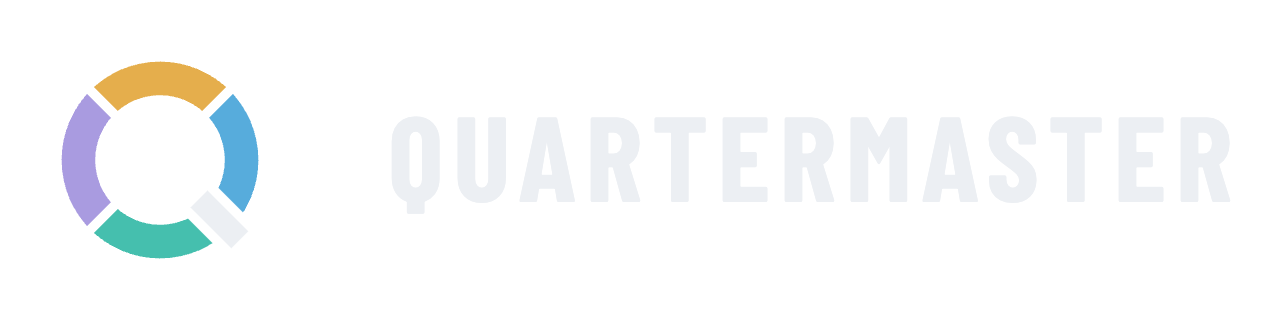
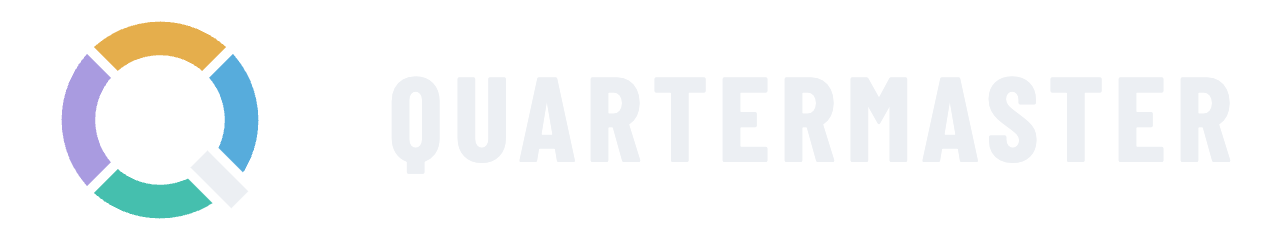
fix: align landing interactions with design handoff

Changed region(s): [[0.0306, 0.0875, 0.2145, 0.4083], [0.0306, 0.5833, 0.1838, 0.9333], [0.1532, 0.6125, 0.2145, 0.7]]

diff --git a/assets/marketing.css b/assets/marketing.css
@@ -37,18 +37,18 @@ a { color:var(--blue);text-underline-offset:4px; }
 a:focus-visible,button:focus-visible { outline:3px solid var(--teal);outline-offset:4px; }
 .skip { position:absolute;left:16px;top:-100px;z-index:100;background:#fff;padding:12px; }
 .skip:focus { top:12px; }
-.marketing-page { width:100%;max-width:1472px;margin:0 auto;background:var(--panel);border:1px solid var(--line);border-radius:18px;box-shadow:0 1px 2px #1518230a,0 20px 38px -24px #15182380;overflow:hidden; }
-.marketing-header { position:sticky;top:0;z-index:40;display:flex;align-items:center;justify-content:space-between;gap:20px;padding:14px 56px;border-bottom:1px solid var(--line-soft);background:rgba(255,255,255,.96);backdrop-filter:blur(10px); }
+.marketing-page { width:100%;max-width:1472px;margin:0 auto;background:var(--panel);border:1px solid var(--line);border-radius:18px;box-shadow:0 1px 2px #1518230a,0 20px 38px -24px #15182380;overflow:visible; }
+.marketing-header { position:sticky;top:0;z-index:60;display:flex;align-items:center;justify-content:space-between;gap:20px;padding:12px 56px;border-bottom:1px solid var(--line-soft);background:rgba(255,255,255,.96);backdrop-filter:blur(10px); }
 .marketing-brand { display:flex;align-items:center;color:var(--ink);text-decoration:none; }
 .marketing-brand-art { display:inline-flex;align-items:center;flex:none; }
 .marketing-brand-lockup { display:block;width:auto;height:50px; }
-.marketing-brand-mark { display:none;width:44px;height:44px;object-fit:contain; }
-.marketing-nav { display:flex;align-items:center;gap:28px; }
-.marketing-nav .marketing-link { min-height:44px;padding:10px 0;border:0;background:none;color:var(--muted);font:inherit;font-size:15px;font-weight:400;text-decoration:none;cursor:pointer; }
+.marketing-brand-mark { display:none;width:46px;height:46px;object-fit:contain; }
+.marketing-nav { display:flex;align-items:center;gap:10px; }
+.marketing-nav .marketing-link { --nav-focus:var(--blue);--nav-tint:var(--blue-soft);position:relative;min-height:44px;padding:10px;border:0;border-radius:10px;background:transparent;color:var(--muted);font:inherit;font-size:15px;font-weight:400;text-decoration:none;cursor:pointer;transition:color .18s ease,background-color .18s ease,box-shadow .18s ease; }
+.marketing-nav .marketing-link:nth-child(2) { --nav-focus:var(--teal);--nav-tint:var(--teal-soft); }.marketing-nav .marketing-link:nth-child(3) { --nav-focus:var(--plum);--nav-tint:var(--plum-soft); }.marketing-nav .marketing-link:nth-child(4) { --nav-focus:#96590b;--nav-tint:#fbedd0; }.marketing-nav .marketing-link:nth-child(5) { --nav-focus:#1c7150;--nav-tint:#dcf0e6; }
 .marketing-nav .marketing-link:visited { color:var(--muted); }
-.marketing-nav .marketing-link[aria-current="page"] { color:var(--blue); }
-.marketing-nav .marketing-link[aria-current="location"] { position:relative;color:var(--blue); }
-.marketing-nav .marketing-link[aria-current="location"]::after { content:"";position:absolute;left:0;right:0;bottom:4px;height:2px;border-radius:2px;background:var(--blue); }
+.marketing-nav .marketing-link[aria-current="page"],.marketing-nav .marketing-link[aria-current="location"] { color:var(--nav-focus);background:var(--nav-tint);box-shadow:inset 0 0 0 1px color-mix(in srgb,var(--nav-focus) 18%,transparent);font-weight:600; }
+.marketing-nav .marketing-link[aria-current="location"]::after { content:"";position:absolute;left:10px;right:10px;bottom:4px;height:2px;border-radius:2px;background:var(--nav-focus); }
 .marketing-open { display:inline-flex;min-height:44px;align-items:center;justify-content:center;padding:10px 24px;border:0;border-radius:999px;background:var(--blue);box-shadow:0 16px 34px -18px #0f6493d9;color:#fff;text-decoration:none;font:inherit;font-size:15px;font-weight:650;transition:transform .18s ease,box-shadow .18s ease,background-color .18s ease; }
 .marketing-open:hover { transform:translateY(-2px);background:var(--blue-dark);box-shadow:0 20px 38px -17px #0f6493ed; }
 .marketing-open:active { transform:translateY(0);box-shadow:0 10px 24px -17px #0f6493ed; }
@@ -193,14 +193,15 @@ a:focus-visible,button:focus-visible { outline:3px solid var(--teal);outline-off
 .landing-local { display:flex;align-items:center;justify-content:center;gap:9px;margin:20px auto 0;color:#596773;font-size:12px; }
 .landing-local a { margin-left:2px; }
 .value-strip { position:relative;display:grid;grid-template-columns:repeat(auto-fit,minmax(230px,1fr));gap:clamp(20px,3vw,36px);max-width:1180px;margin:clamp(54px,7vw,86px) auto 0;text-align:left; }
-.value-signpost { --signpost:var(--blue);display:flex;min-height:145px;flex-direction:column;padding:20px 2px 0;border-top:3px solid var(--signpost);color:var(--ink);text-decoration:none;transition:transform .18s ease; }
+.value-signpost { --signpost:var(--blue);display:grid;min-height:145px;align-content:start;gap:9px;padding:18px 2px 0;border-top:3px solid var(--signpost);color:var(--ink);text-decoration:none;transition:transform .18s ease; }
 .value-signpost:hover { transform:translateY(-3px); }
-.value-signpost .value-number { color:var(--signpost);font-family:"IBM Plex Mono",ui-monospace,monospace;font-size:12px;font-weight:600; }
-.value-signpost strong { margin-top:12px;font-family:"Barlow Condensed",system-ui,sans-serif;font-size:25px;line-height:1.05; }
-.value-signpost small { margin-top:9px;color:var(--muted);font-size:13px;line-height:1.5; }
+.value-signpost-title { display:flex;align-items:baseline;gap:12px; }
+.value-signpost .value-number { flex:none;color:var(--signpost);font-family:"Barlow Condensed",system-ui,sans-serif;font-size:15px;font-weight:700;letter-spacing:.1em; }
+.value-signpost strong { font-family:"Barlow Condensed",system-ui,sans-serif;font-size:25px;line-height:1.05; }
+.value-signpost small { color:var(--muted);font-size:15px;line-height:1.5; }
 .signpost-teal { --signpost:var(--teal); }.signpost-plum { --signpost:var(--plum); }.signpost-gold { --signpost:#96590b; }
 
-.story-section,.privacy-section { padding:clamp(56px,7vw,92px) clamp(18px,4vw,56px);scroll-margin-top:74px; }
+.story-section,.privacy-section { padding:clamp(56px,7vw,92px) clamp(18px,4vw,56px);scroll-margin-top:86px; }
 .story-heading { max-width:1180px;margin:0 auto 44px;text-align:left; }
 .story-heading-line { display:flex;align-items:center;justify-content:flex-start;gap:16px;flex-wrap:wrap; }
 .story-heading h2,.privacy-section h2 { max-width:18em;margin:18px 0 0;font-size:clamp(36px,5vw,62px);font-weight:700;line-height:1.02;letter-spacing:-.025em; }
@@ -220,27 +221,27 @@ a:focus-visible,button:focus-visible { outline:3px solid var(--teal);outline-off
 .focus-ring b { position:absolute;left:-13px;top:-13px;display:grid;width:26px;height:26px;place-items:center;border-radius:50%;background:var(--ring,var(--blue));color:#fff;font:600 12px "IBM Plex Mono",ui-monospace,monospace; }
 .focus-one { left:2.2%;top:35.3%;width:24.7%;height:12.6%; }.focus-two { --ring:#96590b;left:55.2%;top:59.3%;width:41.6%;height:20%; }
 .whole-callouts { flex:1 1 260px;display:grid;gap:16px; }
-.metric-callout { position:relative;padding:22px 20px 20px;border:1px solid var(--line);border-left:3px solid var(--blue);border-radius:0 12px 12px 0;background:#fff;box-shadow:0 12px 28px -28px #151823; }
-.metric-callout.drift-callout { border:1px solid #d9d4e8;border-left:3px solid var(--plum);background:linear-gradient(135deg,#fff 0%,#f7f4fd 100%); }
-.metric-callout > span { position:absolute;right:16px;top:14px;color:var(--blue);font:600 12px "IBM Plex Mono",ui-monospace,monospace; }.metric-callout.amber > span{color:#96590b}
+.metric-callout { --callout:var(--blue);--callout-glow:rgba(15,100,147,.16);padding:20px 22px;border:1px solid var(--line);border-left:3px solid var(--callout);border-radius:14px;background:#fff;box-shadow:0 1px 2px rgba(21,24,35,.04),0 14px 30px -26px rgba(21,24,35,.45);transition:border-color .28s ease,box-shadow .28s ease,transform .28s ease; }
+.metric-callout.drift-callout { --callout:#96590b;--callout-glow:rgba(150,89,11,.15); }
+.metric-callout:hover,.metric-callout:focus-within { border-color:var(--callout);box-shadow:0 0 0 6px var(--callout-glow),0 24px 44px -28px rgba(21,24,35,.55);transform:translateY(-2px); }
+.metric-kicker { display:flex;align-items:center;gap:10px; }.metric-kicker > span { display:grid;width:22px;height:22px;flex:none;place-items:center;border-radius:50%;background:var(--callout);color:#fff;font:700 13px "Barlow Condensed",system-ui,sans-serif; }
 .metric-callout small,.goal-metrics small,.tax-flow small,.tax-result small,.decision-columns small { display:block;color:#68737d;font-size:11px;font-weight:700;letter-spacing:.11em;text-transform:uppercase; }
 .metric-callout strong { display:block;margin-top:8px;font:700 clamp(28px,3vw,39px)/1 "Barlow Condensed",system-ui,sans-serif; }
 .metric-callout p { margin:9px 0 0;color:var(--muted);font-size:13px;line-height:1.5; }
-.drift-callout > span { color:var(--plum); }
-.drift-values { display:grid;gap:8px;margin-top:12px; }
-.drift-values strong { margin:0;padding:10px 12px;border-radius:8px;background:#edf6fb;color:var(--blue);font-size:clamp(23px,2.2vw,30px); }
-.drift-values strong+strong { background:#f0edf9;color:var(--plum); }
+.drift-values { display:grid;gap:5px;margin-top:12px; }
+.drift-values strong { margin:0;color:#96590b;font-size:clamp(25px,2.4vw,34px);font-variant-numeric:tabular-nums; }
+.drift-values strong span { display:inline-block;min-width:2.8em;color:var(--ink);font-size:.58em;letter-spacing:.02em;text-transform:uppercase; }
 .text-link { justify-self:start;margin-top:6px;font-weight:700;text-decoration:none; }
 
 .tax-section { background:#151823;color:#edf2f3; }
 .tax-section .eyebrow { --eyebrow:#45bfae; }.tax-section .story-heading h2 em { color:#45bfae; }
 .tax-section .story-heading > p { color:#aab4c0; }
 .dark-chip { border-color:#2b3140;background:#1c2030;color:#aab4c0; }
-.tax-flow { display:flex;max-width:1180px;margin:clamp(36px,5vw,64px) auto 0;align-items:center; }
-.tax-flow article { flex:1 1 220px;display:grid;min-width:0;gap:8px;padding:24px 24px 26px;border:1px solid #2b3140;border-top:3px solid #a99be0;border-radius:18px;background:#1c2030; }
+.tax-flow { display:flex;max-width:1180px;margin:clamp(36px,5vw,64px) auto 0;align-items:stretch; }
+.tax-flow article { flex:1 1 0;display:grid;min-width:0;min-height:164px;align-content:start;gap:8px;padding:24px 24px 26px;border:1px solid #2b3140;border-top:3px solid #a99be0;border-radius:18px;background:#1c2030; }
 .tax-flow .account-card { border-top-color:#e5ae4c; }
 .tax-flow small { color:#7b8694; }.tax-flow strong { margin:0;color:#fff;font:700 clamp(26px,2.6vw,34px)/1.1 "Barlow Condensed",system-ui,sans-serif; }.tax-flow .holding-card strong { font-family:"IBM Plex Mono",ui-monospace,monospace;font-weight:500; }.tax-flow span,.tax-flow p { margin:0;color:#aab4c0;font-size:14.5px;line-height:1.5; }
-.tax-flow .tax-cost { background:#33191a;border-color:#5a2a26;border-top-color:#e3826f; }.tax-flow .tax-cost small { color:#e3826f; }.tax-flow .tax-cost strong { color:#e3826f;font-size:clamp(40px,4.4vw,62px);line-height:.95;font-variant-numeric:tabular-nums; }.tax-flow .tax-cost strong span { margin-left:6px;color:#eceff3;font:700 .42em "Barlow Condensed",system-ui,sans-serif; }
+.tax-flow .tax-cost { background:#33191a;border-color:#5a2a26;border-top-color:#e3826f; }.tax-flow .tax-cost small { color:#e3826f; }.tax-flow .tax-cost strong { color:#e3826f;font-size:clamp(34px,3.2vw,46px);line-height:1;font-variant-numeric:tabular-nums; }.tax-flow .tax-cost strong span { margin-left:6px;color:#eceff3;font:700 .5em "Barlow Condensed",system-ui,sans-serif; }
 .tax-connector { position:relative;align-self:center;width:54px;height:2px;flex:none;background:#5a6370;transform-origin:left; }.tax-connector::after { content:"";position:absolute;right:-1px;top:-4px;width:8px;height:8px;border-top:2px solid #5a6370;border-right:2px solid #5a6370;transform:rotate(45deg); }
 .qm-motion .tax-connector { transform:scaleX(0);transition:transform 700ms var(--ease-reveal); }.qm-motion .tax-section.is-story-active .tax-connector { transform:scaleX(1); }.qm-motion .tax-section.is-story-active .connector-one { transition-delay:100ms; }.qm-motion .tax-section.is-story-active .connector-two { transition-delay:500ms; }
 .tax-lower { display:grid;grid-template-columns:repeat(auto-fit,minmax(min(100%,320px),1fr));gap:clamp(16px,2vw,28px);max-width:1180px;margin:clamp(20px,2.4vw,28px) auto 0;align-items:stretch; }
@@ -251,7 +252,7 @@ a:focus-visible,button:focus-visible { outline:3px solid var(--teal);outline-off
 
 .goals-section { background:linear-gradient(145deg,var(--plum-soft),#fff 65%); }
 .goals-section .eyebrow { --eyebrow:var(--plum); }.goals-section .story-heading h2 em { color:var(--plum); }
-.goal-cards { display:grid;grid-template-columns:repeat(2,minmax(0,1fr));gap:22px;max-width:1040px;margin:0 auto; }
+.goal-cards { display:grid;grid-template-columns:repeat(2,minmax(0,1fr));gap:22px;max-width:1180px;margin:0 auto; }
 .goal-card { padding:28px;border:1px solid var(--line);border-top:3px solid var(--plum);border-radius:14px;background:#fff;box-shadow:0 18px 38px -34px #151823; }
 .college-goal { border-top-color:var(--teal); }.goal-card-top { display:flex;justify-content:space-between;gap:16px;align-items:center; }.goal-card-top > span { font:700 26px "Barlow Condensed",system-ui,sans-serif; }.goal-card-top small { color:#6b7580;font-size:11px; }
 .goal-metrics { display:grid;grid-template-columns:1.15fr .85fr;gap:18px;margin-top:26px; }.goal-metrics > div+div { padding-left:18px;border-left:1px solid var(--line-soft); }.goal-metrics strong { display:block;margin-top:7px;font:700 clamp(26px,3vw,39px)/1 "Barlow Condensed",system-ui,sans-serif; }.retirement-goal .goal-metrics strong { color:var(--plum); }.college-goal .goal-metrics strong { color:var(--teal); }
@@ -259,21 +260,19 @@ a:focus-visible,button:focus-visible { outline:3px solid var(--teal);outline-off
 .range-labels { display:flex;justify-content:space-between;margin-top:12px;color:#68737d;font-size:11px; }.range-labels span:last-child{text-align:right}.range-labels b{color:var(--ink)}
 .college-bar { overflow:hidden;background:repeating-linear-gradient(135deg,#f3e6c9 0,#f3e6c9 6px,#ead8b0 6px,#ead8b0 10px); }.college-bar span { position:absolute;inset:0 72% 0 0;background:var(--teal); }.college-bar i { position:absolute;inset:0 13% 0 28%;background:#74b8ae; }
 .goal-card > p { margin:14px 0 0;color:#68737d;font-size:12px; }
-.goals-action { display:flex;justify-content:center;align-items:center;gap:18px;flex-wrap:wrap;max-width:1040px;margin:28px auto 0; }.goals-primary { border-color:var(--plum)!important;background:var(--plum)!important;color:#fff!important; }.coming-soon { max-width:420px;color:var(--muted);font-size:13px; }.coming-soon b { display:inline-block;margin-right:7px;padding:3px 7px;border-radius:999px;background:#f3e3c2;color:#7f4c0a;font-size:10px;letter-spacing:.08em;text-transform:uppercase; }
-.goals-section .fine-print { color:#68737d; }
+.goals-action { display:flex;justify-content:flex-start;align-items:center;gap:18px;flex-wrap:wrap;max-width:1180px;margin:28px auto 0; }.goals-primary { border-color:var(--plum)!important;background:var(--plum)!important;color:#fff!important; }.coming-soon { max-width:420px;color:var(--muted);font-size:13px; }.coming-soon b { display:inline-block;margin-right:7px;padding:3px 7px;border-radius:999px;background:#f3e3c2;color:#7f4c0a;font-size:10px;letter-spacing:.08em;text-transform:uppercase; }
+.goals-section .fine-print { max-width:1180px;margin:18px auto 0;color:#68737d;text-align:left; }
 
 .decisions-section { background:#f7f8f6; }.decisions-section .eyebrow { --eyebrow:#96590b; }.decisions-section .story-heading h2 em { color:#96590b; }
-.cadence-steps { display:flex;max-width:1180px;margin:0 auto;align-items:center;justify-content:center;gap:14px; }.cadence-steps div { flex:1;display:flex;min-height:124px;flex-direction:column;justify-content:center;padding:24px;border-top:4px solid var(--step,var(--blue));background:#fff;box-shadow:0 14px 30px -26px #151823; }.cadence-steps div:nth-of-type(2){--step:var(--teal)}.cadence-steps div:nth-of-type(3){--step:var(--plum)}.cadence-steps div:nth-of-type(4){--step:#96590b}.cadence-steps b { color:var(--step,var(--blue));font:600 12px "IBM Plex Mono",ui-monospace,monospace; }.cadence-steps strong { margin-top:10px;font:700 25px "Barlow Condensed",system-ui,sans-serif; }.cadence-steps > i { color:#949ca3;font-style:normal; }
-.decision-record { max-width:1040px;margin:28px auto 0;border:1px solid var(--line);border-radius:14px;background:#fff;overflow:hidden; }.decision-record-head { display:flex;justify-content:space-between;gap:16px;padding:16px 20px;border-bottom:1px solid var(--line-soft);background:#fbfcfb; }.decision-record-head span { font-weight:700; }.decision-record-head small{color:#66717a}.decision-columns { display:grid;grid-template-columns:repeat(3,1fr); }.decision-columns > div { padding:22px; }.decision-columns > div+div { border-left:1px solid var(--line-soft); }.decision-columns p { margin:8px 0 0;color:var(--muted);font-size:13px;line-height:1.55; }
+.cadence-steps { display:grid;grid-template-columns:repeat(4,minmax(0,1fr));gap:clamp(12px,1.4vw,16px);max-width:1180px;margin:0 auto; }.cadence-steps div { --step:var(--blue);display:flex;min-width:0;align-items:center;gap:14px;padding:20px 22px;border:1px solid var(--line);border-top:3px solid var(--step);border-radius:16px;background:#fff;box-shadow:0 1px 2px rgba(21,24,35,.04),0 14px 30px -26px rgba(21,24,35,.45); }.cadence-steps div:nth-child(2){--step:var(--teal)}.cadence-steps div:nth-child(3){--step:var(--plum)}.cadence-steps div:nth-child(4){--step:#c08a2e}.cadence-steps b { display:grid;width:40px;height:40px;flex:none;place-items:center;border-radius:50%;background:var(--step);color:#fff;font:700 17px "Barlow Condensed",system-ui,sans-serif; }.cadence-steps strong { font:700 25px/1.05 "Barlow Condensed",system-ui,sans-serif; }.cadence-steps i { margin-left:auto;color:#7a8590;font-size:20px;font-style:normal; }
+.decision-record { max-width:1180px;margin:clamp(20px,2.4vw,28px) auto 0;border:1px solid var(--line);border-radius:18px;background:#fff;box-shadow:0 22px 46px -34px rgba(21,24,35,.5);overflow:hidden; }.decision-record-head { display:flex;align-items:center;justify-content:space-between;gap:16px;padding:14px 22px;border-bottom:1px solid var(--line-soft);background:#fff; }.decision-record-head span { color:#68737d;font:600 11.5px "Barlow Condensed",system-ui,sans-serif;letter-spacing:.15em;text-transform:uppercase; }.decision-record-head small{color:#68737d;font-size:13.5px}.decision-columns { display:grid;grid-template-columns:repeat(3,1fr); }.decision-columns > div { padding:20px 22px; }.decision-columns > div+div { border-left:1px solid var(--line-soft); }.decision-columns > div:nth-child(1) small { color:var(--blue); }.decision-columns > div:nth-child(2) small { color:var(--teal); }.decision-columns > div:nth-child(3) small { color:#96590b; }.decision-columns p { margin:8px 0 0;color:var(--muted);font-size:15px;line-height:1.55; }.decision-columns p strong { color:var(--ink); }
 
 .privacy-section { background:#fff; }.privacy-inner { display:grid;grid-template-columns:minmax(280px,.85fr) minmax(420px,1.15fr);gap:clamp(36px,5vw,72px);max-width:1180px;margin:0 auto;align-items:center; }.privacy-copy h2 { margin-top:17px; }.privacy-copy > p { max-width:46em;color:var(--muted);font-size:16px; }.privacy-copy details { margin-top:24px;padding:17px 20px;border:1px solid var(--line);border-radius:12px;background:#f8faf8; }.privacy-copy summary { cursor:pointer;font-weight:700; }.privacy-copy li { margin:7px 0;color:var(--muted); }.privacy-proof { font-size:12px!important;font-weight:700; }
 .privacy-visuals { position:relative;min-height:430px;isolation:isolate; }.privacy-visuals figure { margin:0;background:#fff;box-shadow:0 26px 50px -34px #151823;overflow:hidden; }.privacy-visuals img { display:block;width:100%;height:auto; }.history-detail { position:absolute;left:0;top:32px;z-index:1;width:82%;border:1px solid var(--line);border-radius:14px; }.phone-detail { position:absolute;right:0;top:0;z-index:2;width:27%;border:7px solid #252c3b;border-radius:28px; }.phone-detail img { border-radius:20px; }
 
 .start-dialog-warning.protected { border-left-color:var(--teal);background:#e9f5f1;color:#245d54; }
 
-@keyframes value-signpost-in { from { opacity:0;transform:translateY(8px); } to { opacity:1;transform:translateY(0); } }
-.value-signpost:nth-child(1) { --value-i:0; }.value-signpost:nth-child(2) { --value-i:1; }.value-signpost:nth-child(3) { --value-i:2; }.value-signpost:nth-child(4) { --value-i:3; }
-.qm-motion .value-signpost { animation:value-signpost-in 440ms var(--ease-reveal) backwards;animation-delay:calc(80ms + var(--value-i,0) * 70ms); }
+.qm-motion .value-signpost[data-reveal] { --reveal-y:22px; }
 
 @media (hover:hover) and (pointer:fine) {
   .ritual-card,.outlook-card,.privacy-card { transition:transform 220ms var(--ease-reveal),box-shadow 220ms var(--ease-reveal); }
@@ -350,9 +349,12 @@ a:focus-visible,button:focus-visible { outline:3px solid var(--teal);outline-off
   .tax-actions { justify-content:flex-start; }
   .fine-print { text-align:left; }
   .goals-action { align-items:flex-start;justify-content:flex-start;flex-direction:column; }
-  .cadence-steps { display:grid;grid-template-columns:1fr 1fr; }.cadence-steps > i { display:none; }
+  .cadence-steps { grid-template-columns:1fr 1fr; }
   .decision-record-head { flex-direction:column;gap:4px; }.decision-columns { grid-template-columns:1fr; }.decision-columns > div+div { border-left:0;border-top:1px solid var(--line-soft); }
   .privacy-inner { display:block; }.privacy-visuals { min-height:300px;margin-top:34px; }.history-detail { position:relative;top:20px;width:88%; }.phone-detail { width:30%; }
+}
+@media(max-width:480px) {
+  .cadence-steps { grid-template-columns:1fr; }
 }
 @media(prefers-reduced-motion:reduce) {
   html { scroll-behavior:auto; }

diff --git a/index.html b/index.html
@@ -44,11 +44,11 @@
       </div>
       <p class="landing-local"><span aria-hidden="true"></span>No account linking. Your portfolio data stays in a file you control. <a href="/privacy.html">Privacy</a></p>
     </div>
-    <nav class="value-strip" aria-label="What Quartermaster helps you do">
-      <a href="#lp-whole" class="value-signpost signpost-blue"><span class="value-number">01</span><strong>See the whole picture</strong><small>Every brokerage, 401(k), IRA, Roth, and 529 in one allocation.</small></a>
-      <a href="#lp-tax" class="value-signpost signpost-teal"><span class="value-number">02</span><strong>Find potential tax drag</strong><small>See when an investment may sit in a less tax-efficient account.</small></a>
-      <a href="#lp-goals" class="value-signpost signpost-plum"><span class="value-number">03</span><strong>Model your goals</strong><small>Explore retirement and college using your complete portfolio.</small></a>
-      <a href="#lp-decisions" class="value-signpost signpost-gold"><span class="value-number">04</span><strong>Make better decisions</strong><small>Review regularly and record why you made each change.</small></a>
+    <nav class="value-strip" aria-label="What Quartermaster helps you do" data-reveal-group>
+      <a href="#lp-whole" class="value-signpost signpost-blue" data-reveal><span class="value-signpost-title"><span class="value-number">01</span><strong>See the whole picture</strong></span><small>Every brokerage, 401(k), IRA, Roth, and 529 in one allocation.</small></a>
+      <a href="#lp-tax" class="value-signpost signpost-teal" data-reveal><span class="value-signpost-title"><span class="value-number">02</span><strong>Find potential tax drag</strong></span><small>See when an investment may sit in a less tax-efficient account.</small></a>
+      <a href="#lp-goals" class="value-signpost signpost-plum" data-reveal><span class="value-signpost-title"><span class="value-number">03</span><strong>Model your goals</strong></span><small>Explore retirement and college using your complete portfolio.</small></a>
+      <a href="#lp-decisions" class="value-signpost signpost-gold" data-reveal><span class="value-signpost-title"><span class="value-number">04</span><strong>Make better decisions</strong></span><small>Review regularly and record why you made each change.</small></a>
     </nav>
   </section>
 
@@ -68,8 +68,8 @@
         </div>
       </div>
       <div class="whole-callouts" data-reveal-group>
-        <article class="metric-callout" data-reveal data-focus-target="1"><span>1</span><small>Total portfolio value</small><strong>$265,000</strong><p>Tracked investments across the household, excluding the 529 goal.</p></article>
-        <article class="metric-callout drift-callout" data-reveal data-focus-target="2"><span>2</span><small>Drift from target</small><div class="drift-values"><strong>Stocks: +16.1 pts</strong><strong>Bonds: −10.5 pts</strong></div><p>Both are outside the household’s ±5-point review band.</p></article>
+        <article class="metric-callout" data-reveal data-focus-target="1"><div class="metric-kicker"><span>1</span><small>Total portfolio value</small></div><strong>$265,000</strong><p>Tracked investments across the household, excluding the 529 goal.</p></article>
+        <article class="metric-callout drift-callout" data-reveal data-focus-target="2"><div class="metric-kicker"><span>2</span><small>Drift from target</small></div><div class="drift-values"><strong><span>Stocks</span> +16.1 pts</strong><strong><span>Bonds</span> −10.5 pts</strong></div><p>Both are outside the household’s ±5-point review band.</p></article>
         <a class="text-link" href="/app/#demo/dashboard">Explore this dashboard <span aria-hidden="true">→</span></a>
       </div>
     </div>
@@ -126,18 +126,18 @@
       <p>Return monthly, quarterly, or annually to update values, review drift, document decisions, and preserve a record of your plan.</p>
     </header>
     <div class="cadence-steps" data-reveal-group>
-      <div data-reveal><b>01</b><strong>Refresh</strong></div><i aria-hidden="true">→</i>
-      <div data-reveal><b>02</b><strong>Review</strong></div><i aria-hidden="true">→</i>
-      <div data-reveal><b>03</b><strong>Plan changes</strong></div><i aria-hidden="true">→</i>
-      <div data-reveal><b>04</b><strong>Report</strong></div>
+      <div data-reveal><b>1</b><strong>Refresh</strong><i aria-hidden="true">→</i></div>
+      <div data-reveal><b>2</b><strong>Review</strong><i aria-hidden="true">→</i></div>
+      <div data-reveal><b>3</b><strong>Plan changes</strong><i aria-hidden="true">→</i></div>
+      <div data-reveal><b>4</b><strong>Report</strong></div>
     </div>
     <article class="decision-record" data-reveal>
       <div class="decision-record-head"><span>Q2 record · May 15, 2026</span><small>Next check-in · August 2026</small></div>
-      <div class="decision-columns"><div><small>Decided</small><p>Direct the next contribution toward underweight bonds.</p></div><div><small>To reconsider</small><p>An allocation-neutral FXNAX/FXAIX location swap after confirming plan availability and tax details.</p></div><div><small>Why</small><p>Stocks are +16.1 percentage points over target and bonds −10.5 points under.</p></div></div>
+      <div class="decision-columns"><div><small>Decided</small><p><strong>Redirect new contributions</strong> toward underweight bonds.</p></div><div><small>To reconsider</small><p><strong>FXNAX location.</strong> Consider an allocation-neutral FXNAX/FXAIX swap after confirming plan availability and tax details.</p></div><div><small>Why</small><p>Stocks are +16.1 percentage points over target and bonds −10.5 points under.</p></div></div>
     </article>
   </section>
 
-  <section id="lp-privacy" class="privacy-section">
+  <section id="lp-privacy" class="privacy-section" data-story="privacy">
     <div class="privacy-inner">
       <div class="privacy-copy" data-reveal>
         <div class="eyebrow">Private by design</div>

diff --git a/test/site-build.test.js b/test/site-build.test.js
@@ -47,6 +47,10 @@ try {
       const asset = fs.readFileSync(path.join(tmp, 'assets', name));
       assert.equal(asset.subarray(1, 4).toString(), 'PNG');
     }
+    const lockup = fs.readFileSync(path.join(tmp, 'assets', 'quartermaster-lockup.png'));
+    const mark = fs.readFileSync(path.join(tmp, 'assets', 'quartermaster-mark.png'));
+    assert.deepEqual([lockup.readUInt32BE(16), lockup.readUInt32BE(20)], [1273, 240]);
+    assert.deepEqual([mark.readUInt32BE(16), mark.readUInt32BE(20)], [900, 900]);
     for (const name of ['index.html', 'app/index.html', 'pricing.html', 'privacy.html']) {
       const html = fs.readFileSync(path.join(tmp, name), 'utf8');
       assert.equal((html.match(/rel="icon"/g) || []).length, 1);
@@ -108,6 +112,7 @@ try {
     assert.match(html, /class="hero-field"/);
     assert.match(html, /Built for US investors with multiple accounts/);
     for (const id of ['lp-whole', 'lp-tax', 'lp-goals', 'lp-decisions', 'lp-privacy']) assert.match(html, new RegExp(`id="${id}"`));
+    assert.match(html, /id="lp-privacy" class="privacy-section" data-story="privacy"/);
     assert.ok(!html.includes('story-rail'));
     assert.match(html, /data-focus-ring="1"/);
     assert.match(html, /href="\/app\/#demo\/dashboard"/);
@@ -128,9 +133,12 @@ try {
     assert.match(interactions, /document\.body\.appendChild\(backdrop\)/);
     assert.match(interactions, /new IntersectionObserver/);
     assert.match(interactions, /rootMargin: '-45% 0px -50% 0px'/);
+    assert.match(interactions, /const focusY = \(window\.innerHeight \|\| 800\) \* \.475/);
+    assert.match(interactions, /\.value-strip > \[data-reveal\]/);
+    assert.match(interactions, /loadValues\.forEach\(value => value\.classList\.add\('is-in'\)\)/);
     assert.match(interactions, /lockedUntil = Date\.now\(\) \+ 4000/);
-    assert.match(css, /@keyframes value-signpost-in/);
-    assert.match(css, /animation:value-signpost-in 440ms/);
+    assert.match(html, /class="value-strip"[^>]*data-reveal-group/);
+    assert.equal((html.match(/class="value-signpost[^\"]*" data-reveal/g) || []).length, 4);
     assert.match(interactions, /sessionStorage\.setItem\(portfolioHandoffKey/);
     assert.match(interactions, /input\.accept = '\.json,application\/json'/);
     assert.match(html, /No affiliate commissions · no products to sell · no custody or trading/);
@@ -139,6 +147,11 @@ try {
     assert.match(css, /\.history-detail \{[^}]*z-index:1/);
     assert.match(css, /\.phone-detail \{[^}]*z-index:2/);
     assert.ok(!html.includes('<span>Unsaved</span>'));
+    assert.match(css, /\.marketing-page \{[^}]*overflow:visible/);
+    assert.match(css, /\.marketing-header \{ position:sticky;top:0;z-index:60/);
+    assert.match(css, /\.marketing-link\[aria-current="location"\][^{]*\{[^}]*background:var\(--nav-tint\)/);
+    assert.match(css, /\.tax-flow \{[^}]*align-items:stretch/);
+    assert.match(css, /\.cadence-steps \{ display:grid;grid-template-columns:repeat\(4/);
   });
   check('dedicated app entry stays simple with one graphic and three actions', () => {
     const app = fs.readFileSync(path.join(tmp, 'app', 'index.html'), 'utf8');

diff --git a/assets/marketing.js b/assets/marketing.js
@@ -118,6 +118,7 @@
     if (!sections.length || !('IntersectionObserver' in window)) return;
 
     let active = null;
+    let ticking = false;
     const setActive = section => {
       if (active === section) return;
       sections.forEach(item => item.classList.toggle('is-story-active', item === section));
@@ -129,12 +130,27 @@
       active = section;
     };
 
-    const observer = new IntersectionObserver(entries => {
-      const entered = entries.find(entry => entry.isIntersecting);
-      if (entered) setActive(entered.target);
-      else if (entries.some(entry => entry.target === active && !entry.isIntersecting)) setActive(null);
-    }, { rootMargin: '-45% 0px -50% 0px', threshold: 0 });
+    const updateActive = () => {
+      ticking = false;
+      const focusY = (window.innerHeight || 800) * .475;
+      const section = sections.find(item => {
+        const rect = item.getBoundingClientRect();
+        return rect.top <= focusY && rect.bottom > focusY;
+      }) || null;
+      setActive(section);
+    };
+
+    const queueUpdate = () => {
+      if (ticking) return;
+      ticking = true;
+      requestAnimationFrame(updateActive);
+    };
+
+    const observer = new IntersectionObserver(queueUpdate, { rootMargin: '-45% 0px -50% 0px', threshold: 0 });
     sections.forEach(section => observer.observe(section));
+    window.addEventListener('scroll', queueUpdate, { passive: true });
+    window.addEventListener('resize', queueUpdate, { passive: true });
+    updateActive();
   }
 
   /* ---------- Whole-portfolio focus rings ---------- */
@@ -174,6 +190,13 @@
 
     const targets = document.querySelectorAll('[data-reveal]');
     if (!targets.length) return;
+
+    // The four outcome signposts are part of the page-load sequence, even on
+    // shorter screens where their bottom edge begins just below the fold.
+    const loadValues = document.querySelectorAll('.value-strip > [data-reveal]');
+    requestAnimationFrame(() => requestAnimationFrame(() => {
+      loadValues.forEach(value => value.classList.add('is-in'));
+    }));
 
     const observer = new IntersectionObserver((entries, obs) => {
       entries.forEach(entry => {
